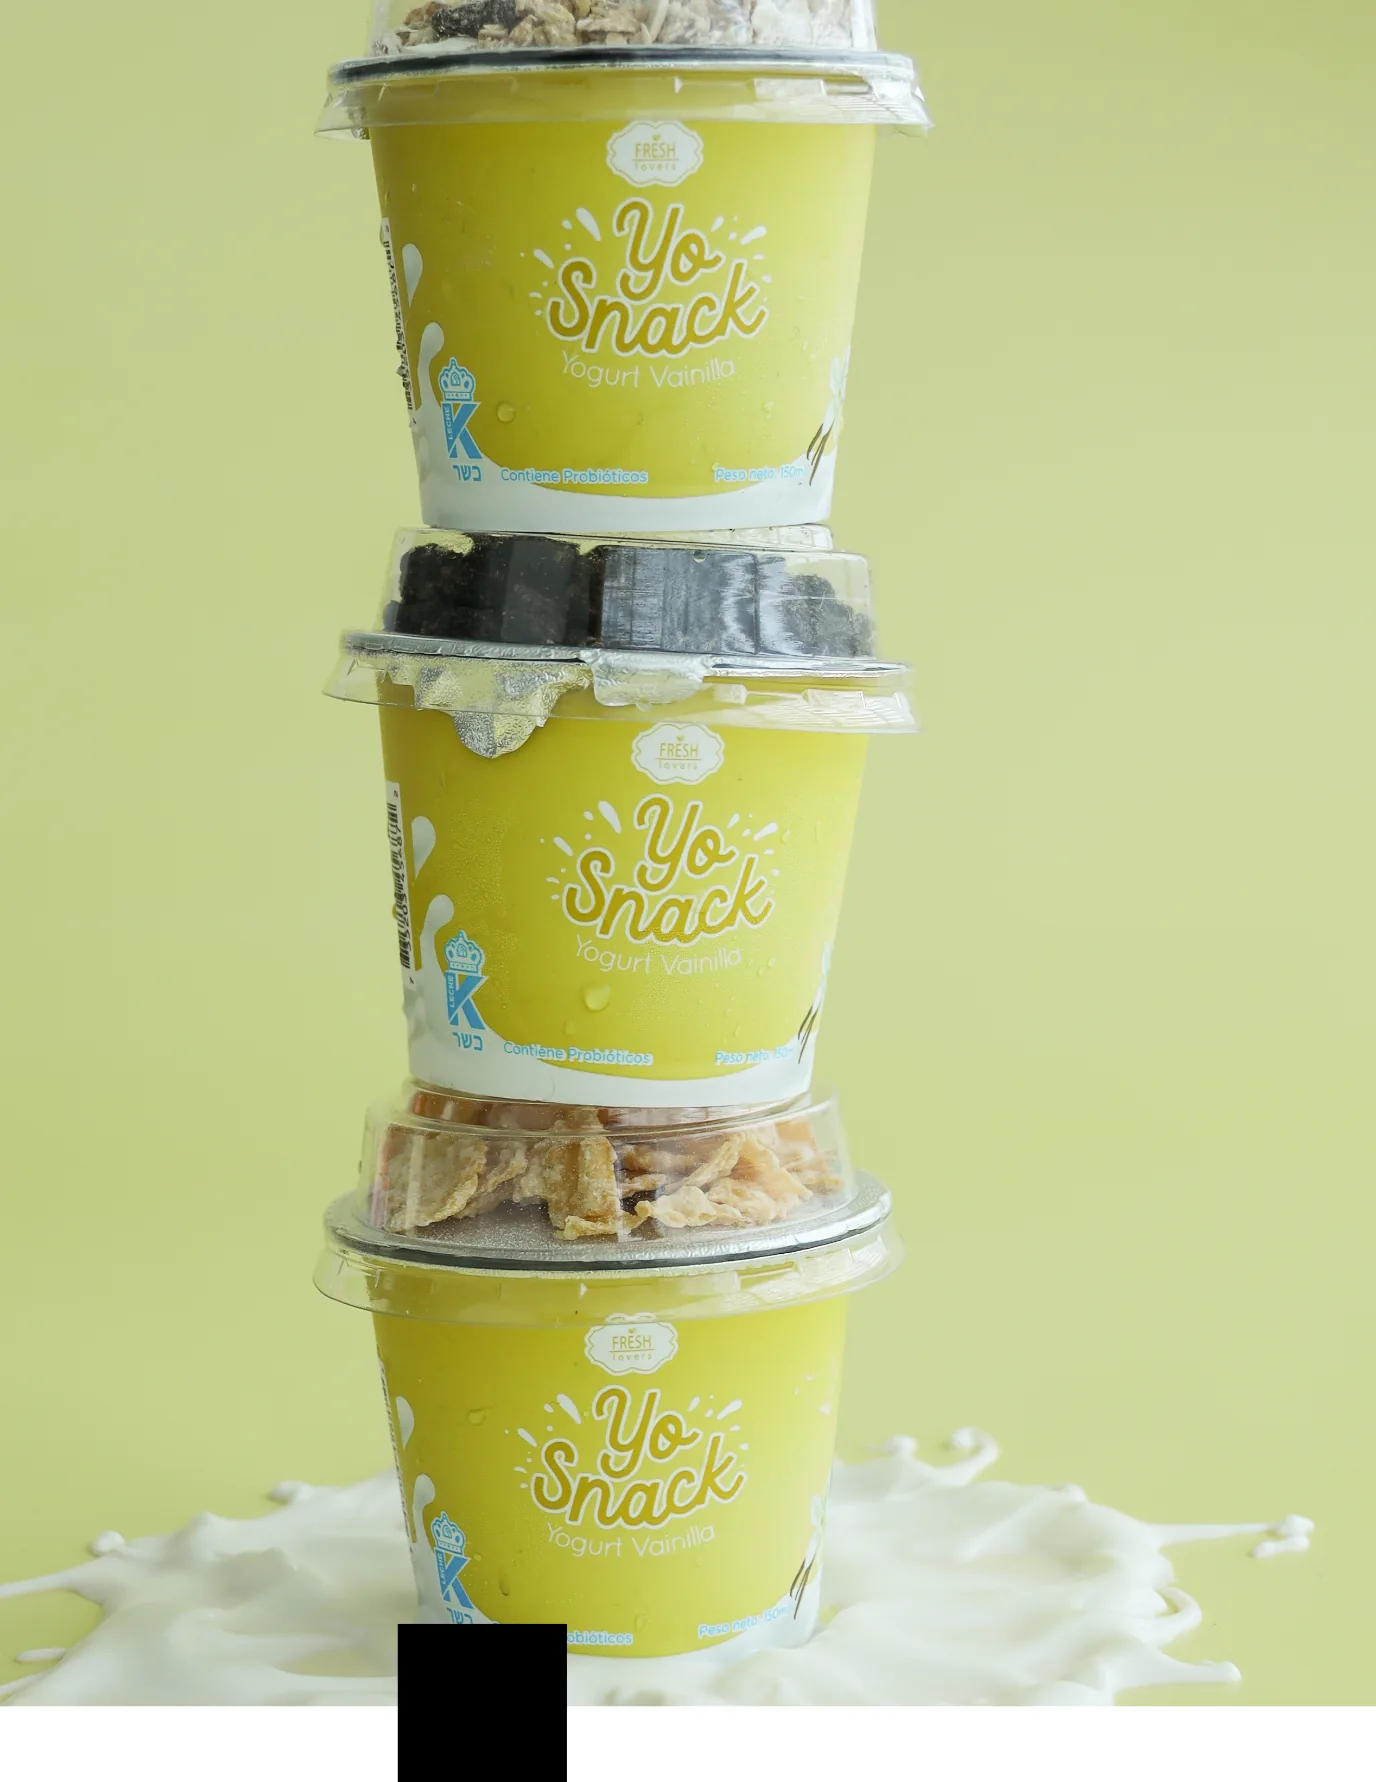
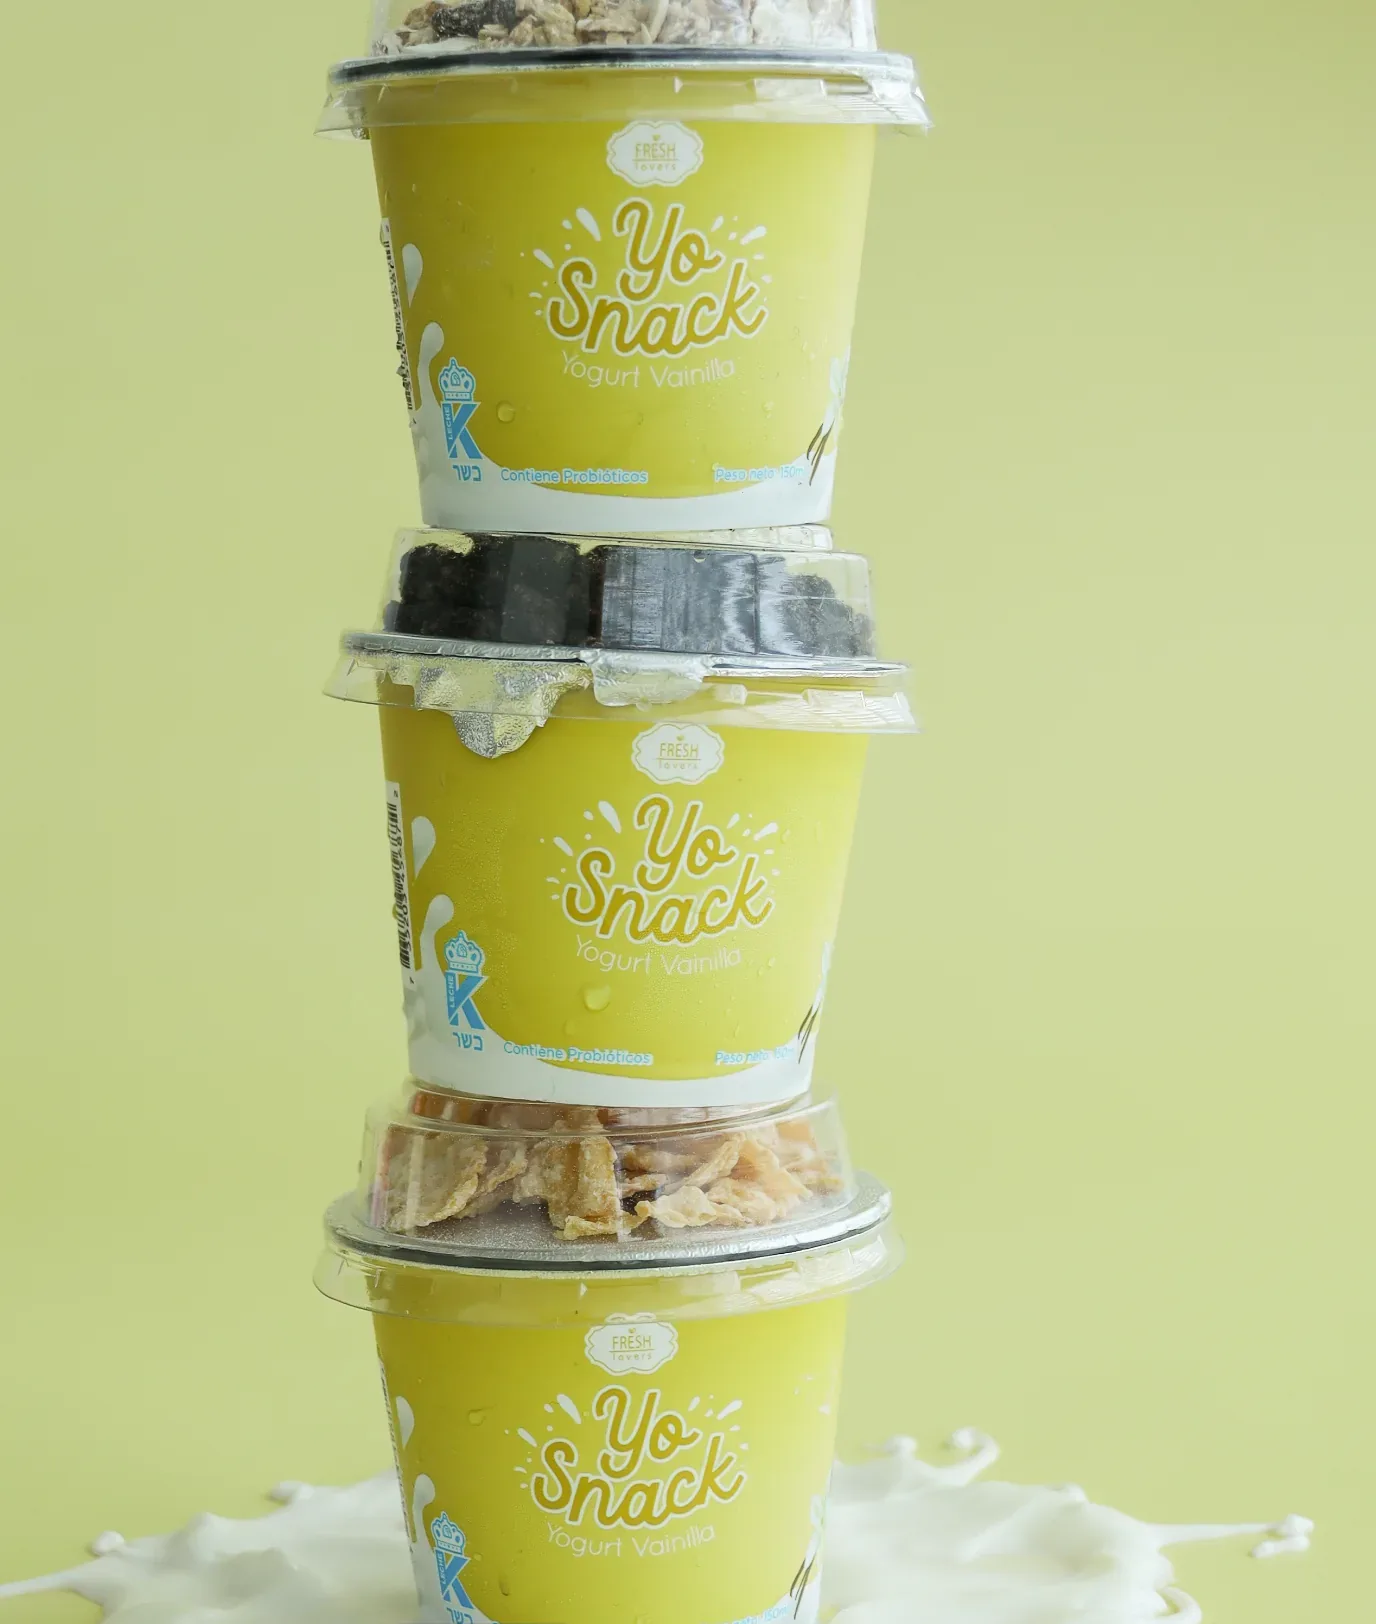
Trim catalog layout artifact from Yo Snack cover photo
Claude-Session: https://claude.ai/code/session_01GmmAWFHkteyoXDuRLpatpS

diff --git a/fresh-lovers/src/data/photos.ts b/fresh-lovers/src/data/photos.ts
@@ -20,7 +20,7 @@ export const photos = {
   "copa": { src: "/products/copa.webp", w: 1600, h: 1397 },
   "cover-arepas": { src: "/products/cover-arepas.webp", w: 1376, h: 824 },
   "cover-quesos": { src: "/products/cover-quesos.webp", w: 1376, h: 826 },
-  "cover-yosnack": { src: "/products/cover-yosnack.webp", w: 1376, h: 1782 },
+  "cover-yosnack": { src: "/products/cover-yosnack.webp", w: 1376, h: 1624 },
   "dip-aceituna": { src: "/products/dip-aceituna.webp", w: 1148, h: 1304 },
   "especiales-chocolate": { src: "/products/especiales-chocolate.webp", w: 664, h: 758 },
   "especiales-dulce-leche": { src: "/products/especiales-dulce-leche.webp", w: 664, h: 756 },
